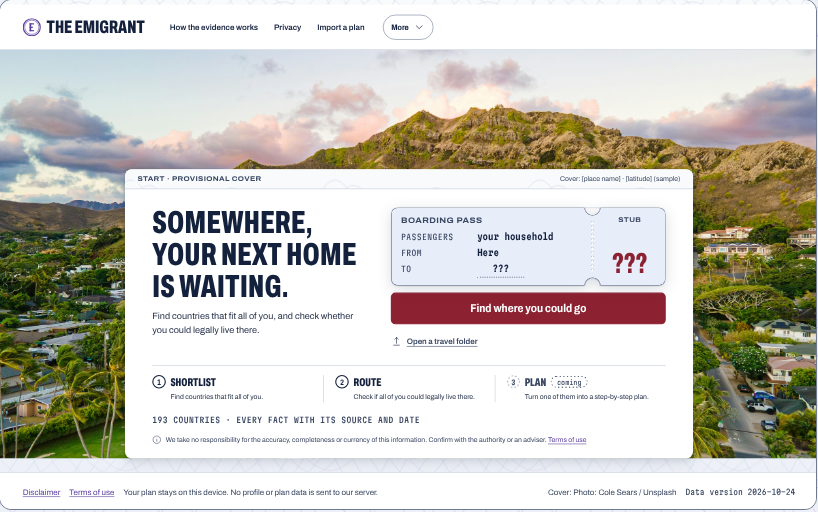
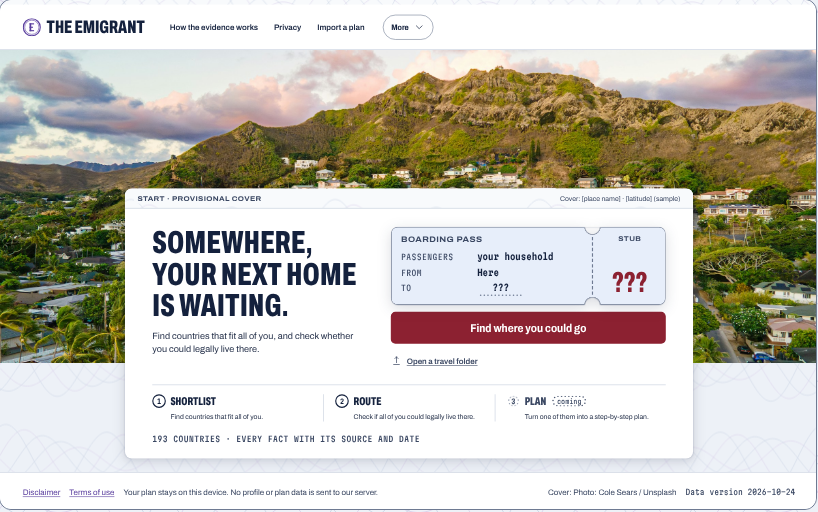
Start cover: dashed tear line, no disclaimer on the card, card ends on the paper
- The boarding pass perforation is the tickets' 2px dashed tear line between the notches
- The disclaimer sentence is off the Start card; the footer carries the Disclaimer and Terms of use links
- Desktop: the photo stops behind the card, so the card lies over its lower part and ends on the paper ground

Claude-Session: https://claude.ai/code/session_01R1t1sqzMbnrFHTa3XNSAQK

diff --git a/design/opendesign/the-emigrant_directions_d1-components.html b/design/opendesign/the-emigrant_directions_d1-components.html
@@ -1580,6 +1580,16 @@ dialog.k-dialog .dlg { position: relative; margin: auto; top: 50%; transform: tr
 @container rail (max-width: 359px) { .f-rail--compact .f-step__soon { padding: 3px 6px; } }
 /* the destination: the dots run along the bottom edge only */
 .st-pass__blank { border-bottom: 2px solid transparent; }
+
+/* ── Start, round 6 ─────────────────────────────────────────────────────────────────────────────
+   The perforation of the boarding pass is the tickets' tear line: a 2px dashed line in the control-edge ink
+   between the notches, no punched holes. */
+.st-pass__perf { width: 0; left: calc(100% - var(--stub) - 1px); top: calc(var(--notch) + 4px); bottom: calc(var(--notch) + 4px); background: none; border-left: 2px dashed var(--line-edge); }
+.k-desk .st-pass__perf { top: calc(var(--notch) + 4px); bottom: calc(var(--notch) + 4px); }
+/* Desktop: the papers card lies over the lower part of the photo and ends on the paper ground, the way the base
+   file's opening does. The photo stops behind the card; below it the security paper shows, then the footer. */
+.k-desk .st-stage { background: none; }
+.k-desk .st-cover--stage { inset: 0 0 auto 0; height: auto; bottom: 168px; }
 </style>
[1 lines of base64/hex data omitted]
 </head>
@@ -2256,14 +2266,14 @@ function startB2(variant, ctx) {
     const passCol = `<div class="st-col st-col--pass">${returning ? startPass('AUT · CRI · DEU', { stub: 'AUT' }) : startPass('???', { flap: true })}${returning
       ? `<p class="st-last">Your travel folder · last changed 2026-10-12 · 2 countries, 1 route checked</p><div class="st-acts"><button type="button" class="btn btn--primary btn--lg st-main" data-toast="${esc(MENU_ITEMS.folder[1])}">Continue with your travel folder</button>${startImport()}</div>`
       : `<div class="st-acts"><button type="button" class="btn btn--primary btn--lg st-main" data-toast="Opens the quick profile (screen 2).">Find where you could go</button>${startImport()}</div>`}</div>`;
-    inner = `${lead}${passCol}<div class="st-col st-col--legs">${startLegs()}</div><div class="st-col st-col--proof"><p class="st-proof" aria-label="${esc(START.proof)}">${esc(START.proof)}</p><p class="st-quiet__line">${icon('info-circle')}<span>${DISCLAIMER} <a href="#" data-toast="${TERMS_TOAST}">Terms of use</a></span></p></div>`;
+    inner = `${lead}${passCol}<div class="st-col st-col--legs">${startLegs()}</div><div class="st-col st-col--proof"><p class="st-proof" aria-label="${esc(START.proof)}">${esc(START.proof)}</p></div>`;
   }
   const gridCls = (variant === 'terms' || variant === 'changed' || variant === 'firstload') ? 'd2-termsgrid' : 'st-grid st-grid--b2';
   return `<section class="st-stage d2-start" aria-label="Start, ${variant}">${startCover()}
     <div class="cp st-card st-card--b2">${phone ? '' : startBand()}<div class="${gridCls}">${inner}</div>${phone ? startBand() : ''}</div></section>`;
 }
 /* The Start shell: no plan rail (the visitor has not started), the desktop inline links with "More", the cover credit
-   in the footers. The disclaimer sentence appears once, on the card under the proof line. parts: { body, offline, menuId } */
+   in the footers, with the Disclaimer and Terms of use links. parts: { body, offline, menuId } */
 function startShell(ctx, parts) {
   const id = parts.menuId || ctx;
   const credit = `Cover: ${esc(START.cover.credit)}`;
@@ -2800,7 +2810,7 @@ S.tickets = () => `<div class="g-item"><div class="g-item__label"><b>Ticket</b><
 const COVER_STATES = [['first', 'first visit: the destination still blank, the departure board on arrival'], ['terms', 'terms not yet accepted: the card is the terms, the only button is Accept'], ['changed', 'terms changed since you accepted'], ['returning', 'returning with a travel folder: the shortlist codes on the pass'], ['firstload', 'data loading for the first time']];
 S.cover = () => COVER_STATES.map(([v, label]) => `<div class="g-item g-boards" id="cover-${v}"><div class="g-item__label"><b>Cover with the papers card</b><span>${label}</span></div>
   <div class="k-boards"><div class="k-board"><div class="board-label"><b>Phone</b><span>390 × 844</span><span class="sample">Sample data</span></div><div class="k-artboard k-phone" data-frame data-cover="${v}" data-ctx="phone">${startShell('phone', { body: startB2(v, 'phone'), menuId: `cover-${v}-phone` })}</div></div>
-    <div class="k-board k-board--desktop"><div class="board-label"><b>Desktop</b><span data-fit-label>1440 × 900</span><span class="sample">Sample data</span></div><div class="k-fit k-artboard" data-fit><div class="k-desk" data-frame data-cover="${v}" data-ctx="desktop">${startShell('desktop', { body: startB2(v, 'desktop'), menuId: `cover-${v}-desktop` })}</div></div></div></div></div>`).join('') + '<p class="g-note">The full photo as the stage, the papers card over its lower part: the headline about the life, the rational line, the boarding pass as the one object (the destination "???" in navy on a dotted underline, the stub code in oxblood), the three journey legs with plain hairline dividers, Plan marked "coming". The card band carries the cover\'s place line. On desktop the card ends 24px above the footer with the journey row fully visible, and the pass is about 15% larger. The footers carry the cover credit, the privacy promise and the Disclaimer and Terms of use links; the disclaimer sentence sits once on the card. Text never sits on the photo.</p>';
+    <div class="k-board k-board--desktop"><div class="board-label"><b>Desktop</b><span data-fit-label>1440 × 900</span><span class="sample">Sample data</span></div><div class="k-fit k-artboard" data-fit><div class="k-desk" data-frame data-cover="${v}" data-ctx="desktop">${startShell('desktop', { body: startB2(v, 'desktop'), menuId: `cover-${v}-desktop` })}</div></div></div></div></div>`).join('') + '<p class="g-note">The full photo as the stage, the papers card over its lower part: the headline about the life, the rational line, the boarding pass as the one object (the destination "???" in navy on a dotted underline, the stub code in oxblood), the three journey legs with plain hairline dividers, Plan marked "coming". The card band carries the cover\'s place line. On desktop the card ends 24px above the footer with the journey row fully visible, and the pass is about 15% larger. The boarding pass tears along a dashed line, as the tickets do. On desktop the card lies over the lower part of the photo and ends on the paper ground. The footers carry the cover credit, the privacy promise and the Disclaimer and Terms of use links. Text never sits on the photo.</p>';
 
 S.profile = () => `<div class="g-grid">
   ${item('Quick profile · 1 of 3', 'where you live now · select menu with search', `<div class="qp"><span class="qp__step">Question 1 of 3</span><div class="prog"><div class="prog__track" role="progressbar" aria-valuenow="1" aria-valuemin="0" aria-valuemax="3" aria-label="Question 1 of 3"><span class="prog__bar" style="width:33%"></span></div></div><p class="qp__q" id="qp1q">Where do you live now?</p><p class="qp__why">${icon('info-circle')}<span>Why we ask: to compare prices from where you are.</span></p>${selectMenu({ ariaLabel: 'Where do you live now?', items: COUNTRY_ITEMS(), value: 'Austria', searchPlaceholder: 'Type a country' })}<div class="qp__foot"><button type="button" class="btn btn--ghost btn--sm" data-toast="Skipped. We use no home country.">Skip</button><button type="button" class="btn btn--secondary" data-toast="Next question.">Next</button></div></div>`)}

diff --git a/design/opendesign/the-emigrant_directions_start-study-self.html b/design/opendesign/the-emigrant_directions_start-study-self.html
@@ -1580,6 +1580,16 @@ dialog.k-dialog .dlg { position: relative; margin: auto; top: 50%; transform: tr
 @container rail (max-width: 359px) { .f-rail--compact .f-step__soon { padding: 3px 6px; } }
 /* the destination: the dots run along the bottom edge only */
 .st-pass__blank { border-bottom: 2px solid transparent; }
+
+/* ── Start, round 6 ─────────────────────────────────────────────────────────────────────────────
+   The perforation of the boarding pass is the tickets' tear line: a 2px dashed line in the control-edge ink
+   between the notches, no punched holes. */
+.st-pass__perf { width: 0; left: calc(100% - var(--stub) - 1px); top: calc(var(--notch) + 4px); bottom: calc(var(--notch) + 4px); background: none; border-left: 2px dashed var(--line-edge); }
+.k-desk .st-pass__perf { top: calc(var(--notch) + 4px); bottom: calc(var(--notch) + 4px); }
+/* Desktop: the papers card lies over the lower part of the photo and ends on the paper ground, the way the base
+   file's opening does. The photo stops behind the card; below it the security paper shows, then the footer. */
+.k-desk .st-stage { background: none; }
+.k-desk .st-cover--stage { inset: 0 0 auto 0; height: auto; bottom: 168px; }
 </style>
 <style data-od-inline-asset="./d2-screens.css?v=20261026z">/* The Emigrant — D2 screen composition layer.
  * Only layout for composing screens from the D1 components in emigrant-ds.css. No new colors, type
@@ -2397,14 +2407,14 @@ function startB2(variant, ctx) {
     const passCol = `<div class="st-col st-col--pass">${returning ? startPass('AUT · CRI · DEU', { stub: 'AUT' }) : startPass('???', { flap: true })}${returning
       ? `<p class="st-last">Your travel folder · last changed 2026-10-12 · 2 countries, 1 route checked</p><div class="st-acts"><button type="button" class="btn btn--primary btn--lg st-main" data-toast="${esc(MENU_ITEMS.folder[1])}">Continue with your travel folder</button>${startImport()}</div>`
       : `<div class="st-acts"><button type="button" class="btn btn--primary btn--lg st-main" data-toast="Opens the quick profile (screen 2).">Find where you could go</button>${startImport()}</div>`}</div>`;
-    inner = `${lead}${passCol}<div class="st-col st-col--legs">${startLegs()}</div><div class="st-col st-col--proof"><p class="st-proof" aria-label="${esc(START.proof)}">${esc(START.proof)}</p><p class="st-quiet__line">${icon('info-circle')}<span>${DISCLAIMER} <a href="#" data-toast="${TERMS_TOAST}">Terms of use</a></span></p></div>`;
+    inner = `${lead}${passCol}<div class="st-col st-col--legs">${startLegs()}</div><div class="st-col st-col--proof"><p class="st-proof" aria-label="${esc(START.proof)}">${esc(START.proof)}</p></div>`;
   }
   const gridCls = (variant === 'terms' || variant === 'changed' || variant === 'firstload') ? 'd2-termsgrid' : 'st-grid st-grid--b2';
   return `<section class="st-stage d2-start" aria-label="Start, ${variant}">${startCover()}
     <div class="cp st-card st-card--b2">${phone ? '' : startBand()}<div class="${gridCls}">${inner}</div>${phone ? startBand() : ''}</div></section>`;
 }
 /* The Start shell: no plan rail (the visitor has not started), the desktop inline links with "More", the cover credit
-   in the footers. The disclaimer sentence appears once, on the card under the proof line. parts: { body, offline, menuId } */
+   in the footers, with the Disclaimer and Terms of use links. parts: { body, offline, menuId } */
 function startShell(ctx, parts) {
   const id = parts.menuId || ctx;
   const credit = `Cover: ${esc(START.cover.credit)}`;
@@ -2698,7 +2708,7 @@ function fontStatus() {
   const el = $('#fontStatus'); if (!el) return;
   document.fonts.ready.then(() => { const ok = document.fonts.check('800 48px Archivo') && [...document.fonts].some(f => f.family === 'Archivo' && f.status === 'loaded'); el.textContent = ok ? 'Fonts: Archivo (width axis 62–125%) and Martian Mono loaded from this project' : 'Fonts: Archivo did not load in this viewer, a fallback is showing'; el.dataset.ok = ok; });
 }
-const STUDY_NOTE = 'The chosen direction, as D2 renders it on screen 1 and D1 shows it as "Cover with the papers card": the photo first, the papers card on its lower part, the headline about the life with the rational line under it, one strong object (the boarding pass, the destination "???" in navy on a dotted underline) above the button, the proof line as plain mono text, and the three journey legs as clean typography with hairline dividers; Plan marked "coming" with the dotted tag. The card band carries the cover\'s place line. On desktop the card ends 24px above the footer with the journey row fully visible, and the pass is about 15% larger. The footers carry the cover credit, the privacy promise and the Disclaimer and Terms of use links; the disclaimer sentence sits once on the card. On arrival the photo drifts slowly and the legs appear one after another; all motion is off under reduced motion. The cover switcher swaps the cover photo, its credit, place line and focal point. Sample data.';
+const STUDY_NOTE = 'The chosen direction, as D2 renders it on screen 1 and D1 shows it as "Cover with the papers card": the photo first, the papers card on its lower part, the headline about the life with the rational line under it, one strong object (the boarding pass, the destination "???" in navy on a dotted underline) above the button, the proof line as plain mono text, and the three journey legs as clean typography with hairline dividers; Plan marked "coming" with the dotted tag. The card band carries the cover\'s place line. On desktop the card ends 24px above the footer with the journey row fully visible, and the pass is about 15% larger. The boarding pass tears along a dashed line, as the tickets do. On desktop the card lies over the lower part of the photo and ends on the paper ground. The footers carry the cover credit, the privacy promise and the Disclaimer and Terms of use links. On arrival the photo drifts slowly and the legs appear one after another; all motion is off under reduced motion. The cover switcher swaps the cover photo, its credit, place line and focal point. Sample data.';
 function sectionHtml() {
   const coverRow = `<div class="d2-states__row">${COVER_ORDER.map(id => `<button type="button" class="d2-state" aria-pressed="${id === activeCover}" data-cover="${id}">${COVERS[id].label}</button>`).join('')}<span class="st-covernote">The three files in assets/photos. The coastal road is a generated image, a placeholder, not for release.</span></div>`;
   const sw = `<div class="d2-states" role="group" aria-label="Prototype controls"><span class="d2-states__tag">${icon('eye')}<span>Prototype · headline</span></span><div class="d2-states__row">${HEADLINES_B2.map((h, i) => `<button type="button" class="d2-state" aria-pressed="${i === b2Headline}" data-b2h="${i}">${i + 1} · ${h}</button>`).join('')}<a class="d2-state" href="#" data-replay>Replay the destination board</a></div><span class="d2-states__tag" style="margin-top:8px">${icon('eye')}<span>Prototype · cover</span></span>${coverRow}<p class="st-fontstatus" id="fontStatus" role="status">Fonts: checking…</p></div>`;

diff --git a/design/opendesign/the-emigrant_directions_d2-plan.html b/design/opendesign/the-emigrant_directions_d2-plan.html
@@ -1580,6 +1580,16 @@ dialog.k-dialog .dlg { position: relative; margin: auto; top: 50%; transform: tr
 @container rail (max-width: 359px) { .f-rail--compact .f-step__soon { padding: 3px 6px; } }
 /* the destination: the dots run along the bottom edge only */
 .st-pass__blank { border-bottom: 2px solid transparent; }
+
+/* ── Start, round 6 ─────────────────────────────────────────────────────────────────────────────
+   The perforation of the boarding pass is the tickets' tear line: a 2px dashed line in the control-edge ink
+   between the notches, no punched holes. */
+.st-pass__perf { width: 0; left: calc(100% - var(--stub) - 1px); top: calc(var(--notch) + 4px); bottom: calc(var(--notch) + 4px); background: none; border-left: 2px dashed var(--line-edge); }
+.k-desk .st-pass__perf { top: calc(var(--notch) + 4px); bottom: calc(var(--notch) + 4px); }
+/* Desktop: the papers card lies over the lower part of the photo and ends on the paper ground, the way the base
+   file's opening does. The photo stops behind the card; below it the security paper shows, then the footer. */
+.k-desk .st-stage { background: none; }
+.k-desk .st-cover--stage { inset: 0 0 auto 0; height: auto; bottom: 168px; }
 </style>
 <style data-od-inline-asset="./d2-screens.css?v=20261026z">/* The Emigrant — D2 screen composition layer.
  * Only layout for composing screens from the D1 components in emigrant-ds.css. No new colors, type
@@ -2385,14 +2395,14 @@ function startB2(variant, ctx) {
     const passCol = `<div class="st-col st-col--pass">${returning ? startPass('AUT · CRI · DEU', { stub: 'AUT' }) : startPass('???', { flap: true })}${returning
       ? `<p class="st-last">Your travel folder · last changed 2026-10-12 · 2 countries, 1 route checked</p><div class="st-acts"><button type="button" class="btn btn--primary btn--lg st-main" data-toast="${esc(MENU_ITEMS.folder[1])}">Continue with your travel folder</button>${startImport()}</div>`
       : `<div class="st-acts"><button type="button" class="btn btn--primary btn--lg st-main" data-toast="Opens the quick profile (screen 2).">Find where you could go</button>${startImport()}</div>`}</div>`;
-    inner = `${lead}${passCol}<div class="st-col st-col--legs">${startLegs()}</div><div class="st-col st-col--proof"><p class="st-proof" aria-label="${esc(START.proof)}">${esc(START.proof)}</p><p class="st-quiet__line">${icon('info-circle')}<span>${DISCLAIMER} <a href="#" data-toast="${TERMS_TOAST}">Terms of use</a></span></p></div>`;
+    inner = `${lead}${passCol}<div class="st-col st-col--legs">${startLegs()}</div><div class="st-col st-col--proof"><p class="st-proof" aria-label="${esc(START.proof)}">${esc(START.proof)}</p></div>`;
   }
   const gridCls = (variant === 'terms' || variant === 'changed' || variant === 'firstload') ? 'd2-termsgrid' : 'st-grid st-grid--b2';
   return `<section class="st-stage d2-start" aria-label="Start, ${variant}">${startCover()}
     <div class="cp st-card st-card--b2">${phone ? '' : startBand()}<div class="${gridCls}">${inner}</div>${phone ? startBand() : ''}</div></section>`;
 }
 /* The Start shell: no plan rail (the visitor has not started), the desktop inline links with "More", the cover credit
-   in the footers. The disclaimer sentence appears once, on the card under the proof line. parts: { body, offline, menuId } */
+   in the footers, with the Disclaimer and Terms of use links. parts: { body, offline, menuId } */
 function startShell(ctx, parts) {
   const id = parts.menuId || ctx;
   const credit = `Cover: ${esc(START.cover.credit)}`;
@@ -2772,7 +2782,7 @@ const defState = () => ({ list: new Set(), country: 'AUT', search: '', region: '
 
 SCREENS.start = {
   no: '1 · 1a', title: 'Start, with Terms of use',
-  note: 'The first impression, in the chosen B2 direction: the full photo as the stage, the papers card over its lower part with the headline about the life, the rational line, the boarding pass as the one object, and the three journey legs. Terms of use (1a) take the card over until accepted; then the only button is "Accept". The cover is provisional and comes from one setting, START.cover, in the D1 engine; D1\'s "Cover with the papers card" is this same component. The footers carry the privacy promise and the Disclaimer and Terms of use links; the disclaimer sentence sits once on the card.',
+  note: 'The first impression, in the chosen B2 direction: the full photo as the stage, the papers card over its lower part with the headline about the life, the rational line, the boarding pass as the one object, and the three journey legs. Terms of use (1a) take the card over until accepted; then the only button is "Accept". The cover is provisional and comes from one setting, START.cover, in the D1 engine; D1\'s "Cover with the papers card" is this same component. The footers carry the privacy promise and the Disclaimer and Terms of use links.',
   states: [['first', 'First visit'], ['terms', 'Terms not accepted'], ['changed', 'Terms changed'], ['returning', 'Returning with a plan'], ['firstload', 'Data loading for the first time']],
   system: [['offline', 'Offline']],
   render(ctx, S) {

diff --git a/design/opendesign/the-emigrant_directions_d2-reading.html b/design/opendesign/the-emigrant_directions_d2-reading.html
@@ -1580,6 +1580,16 @@ dialog.k-dialog .dlg { position: relative; margin: auto; top: 50%; transform: tr
 @container rail (max-width: 359px) { .f-rail--compact .f-step__soon { padding: 3px 6px; } }
 /* the destination: the dots run along the bottom edge only */
 .st-pass__blank { border-bottom: 2px solid transparent; }
+
+/* ── Start, round 6 ─────────────────────────────────────────────────────────────────────────────
+   The perforation of the boarding pass is the tickets' tear line: a 2px dashed line in the control-edge ink
+   between the notches, no punched holes. */
+.st-pass__perf { width: 0; left: calc(100% - var(--stub) - 1px); top: calc(var(--notch) + 4px); bottom: calc(var(--notch) + 4px); background: none; border-left: 2px dashed var(--line-edge); }
+.k-desk .st-pass__perf { top: calc(var(--notch) + 4px); bottom: calc(var(--notch) + 4px); }
+/* Desktop: the papers card lies over the lower part of the photo and ends on the paper ground, the way the base
+   file's opening does. The photo stops behind the card; below it the security paper shows, then the footer. */
+.k-desk .st-stage { background: none; }
+.k-desk .st-cover--stage { inset: 0 0 auto 0; height: auto; bottom: 168px; }
 </style>
 <style data-od-inline-asset="./d2-screens.css?v=20261026z">/* The Emigrant — D2 screen composition layer.
  * Only layout for composing screens from the D1 components in emigrant-ds.css. No new colors, type
@@ -2385,14 +2395,14 @@ function startB2(variant, ctx) {
     const passCol = `<div class="st-col st-col--pass">${returning ? startPass('AUT · CRI · DEU', { stub: 'AUT' }) : startPass('???', { flap: true })}${returning
       ? `<p class="st-last">Your travel folder · last changed 2026-10-12 · 2 countries, 1 route checked</p><div class="st-acts"><button type="button" class="btn btn--primary btn--lg st-main" data-toast="${esc(MENU_ITEMS.folder[1])}">Continue with your travel folder</button>${startImport()}</div>`
       : `<div class="st-acts"><button type="button" class="btn btn--primary btn--lg st-main" data-toast="Opens the quick profile (screen 2).">Find where you could go</button>${startImport()}</div>`}</div>`;
-    inner = `${lead}${passCol}<div class="st-col st-col--legs">${startLegs()}</div><div class="st-col st-col--proof"><p class="st-proof" aria-label="${esc(START.proof)}">${esc(START.proof)}</p><p class="st-quiet__line">${icon('info-circle')}<span>${DISCLAIMER} <a href="#" data-toast="${TERMS_TOAST}">Terms of use</a></span></p></div>`;
+    inner = `${lead}${passCol}<div class="st-col st-col--legs">${startLegs()}</div><div class="st-col st-col--proof"><p class="st-proof" aria-label="${esc(START.proof)}">${esc(START.proof)}</p></div>`;
   }
   const gridCls = (variant === 'terms' || variant === 'changed' || variant === 'firstload') ? 'd2-termsgrid' : 'st-grid st-grid--b2';
   return `<section class="st-stage d2-start" aria-label="Start, ${variant}">${startCover()}
     <div class="cp st-card st-card--b2">${phone ? '' : startBand()}<div class="${gridCls}">${inner}</div>${phone ? startBand() : ''}</div></section>`;
 }
 /* The Start shell: no plan rail (the visitor has not started), the desktop inline links with "More", the cover credit
-   in the footers. The disclaimer sentence appears once, on the card under the proof line. parts: { body, offline, menuId } */
+   in the footers, with the Disclaimer and Terms of use links. parts: { body, offline, menuId } */
 function startShell(ctx, parts) {
   const id = parts.menuId || ctx;
   const credit = `Cover: ${esc(START.cover.credit)}`;
@@ -2772,7 +2782,7 @@ const defState = () => ({ list: new Set(), country: 'AUT', search: '', region: '
 
 SCREENS.start = {
   no: '1 · 1a', title: 'Start, with Terms of use',
-  note: 'The first impression, in the chosen B2 direction: the full photo as the stage, the papers card over its lower part with the headline about the life, the rational line, the boarding pass as the one object, and the three journey legs. Terms of use (1a) take the card over until accepted; then the only button is "Accept". The cover is provisional and comes from one setting, START.cover, in the D1 engine; D1\'s "Cover with the papers card" is this same component. The footers carry the privacy promise and the Disclaimer and Terms of use links; the disclaimer sentence sits once on the card.',
+  note: 'The first impression, in the chosen B2 direction: the full photo as the stage, the papers card over its lower part with the headline about the life, the rational line, the boarding pass as the one object, and the three journey legs. Terms of use (1a) take the card over until accepted; then the only button is "Accept". The cover is provisional and comes from one setting, START.cover, in the D1 engine; D1\'s "Cover with the papers card" is this same component. The footers carry the privacy promise and the Disclaimer and Terms of use links.',
   states: [['first', 'First visit'], ['terms', 'Terms not accepted'], ['changed', 'Terms changed'], ['returning', 'Returning with a plan'], ['firstload', 'Data loading for the first time']],
   system: [['offline', 'Offline']],
   render(ctx, S) {

diff --git a/design/opendesign/the-emigrant_directions_d2-shortlist.html b/design/opendesign/the-emigrant_directions_d2-shortlist.html
@@ -1580,6 +1580,16 @@ dialog.k-dialog .dlg { position: relative; margin: auto; top: 50%; transform: tr
 @container rail (max-width: 359px) { .f-rail--compact .f-step__soon { padding: 3px 6px; } }
 /* the destination: the dots run along the bottom edge only */
 .st-pass__blank { border-bottom: 2px solid transparent; }
+
+/* ── Start, round 6 ─────────────────────────────────────────────────────────────────────────────
+   The perforation of the boarding pass is the tickets' tear line: a 2px dashed line in the control-edge ink
+   between the notches, no punched holes. */
+.st-pass__perf { width: 0; left: calc(100% - var(--stub) - 1px); top: calc(var(--notch) + 4px); bottom: calc(var(--notch) + 4px); background: none; border-left: 2px dashed var(--line-edge); }
+.k-desk .st-pass__perf { top: calc(var(--notch) + 4px); bottom: calc(var(--notch) + 4px); }
+/* Desktop: the papers card lies over the lower part of the photo and ends on the paper ground, the way the base
+   file's opening does. The photo stops behind the card; below it the security paper shows, then the footer. */
+.k-desk .st-stage { background: none; }
+.k-desk .st-cover--stage { inset: 0 0 auto 0; height: auto; bottom: 168px; }
 </style>
 <style data-od-inline-asset="./d2-screens.css?v=20261026z">/* The Emigrant — D2 screen composition layer.
  * Only layout for composing screens from the D1 components in emigrant-ds.css. No new colors, type
@@ -2385,14 +2395,14 @@ function startB2(variant, ctx) {
     const passCol = `<div class="st-col st-col--pass">${returning ? startPass('AUT · CRI · DEU', { stub: 'AUT' }) : startPass('???', { flap: true })}${returning
       ? `<p class="st-last">Your travel folder · last changed 2026-10-12 · 2 countries, 1 route checked</p><div class="st-acts"><button type="button" class="btn btn--primary btn--lg st-main" data-toast="${esc(MENU_ITEMS.folder[1])}">Continue with your travel folder</button>${startImport()}</div>`
       : `<div class="st-acts"><button type="button" class="btn btn--primary btn--lg st-main" data-toast="Opens the quick profile (screen 2).">Find where you could go</button>${startImport()}</div>`}</div>`;
-    inner = `${lead}${passCol}<div class="st-col st-col--legs">${startLegs()}</div><div class="st-col st-col--proof"><p class="st-proof" aria-label="${esc(START.proof)}">${esc(START.proof)}</p><p class="st-quiet__line">${icon('info-circle')}<span>${DISCLAIMER} <a href="#" data-toast="${TERMS_TOAST}">Terms of use</a></span></p></div>`;
+    inner = `${lead}${passCol}<div class="st-col st-col--legs">${startLegs()}</div><div class="st-col st-col--proof"><p class="st-proof" aria-label="${esc(START.proof)}">${esc(START.proof)}</p></div>`;
   }
   const gridCls = (variant === 'terms' || variant === 'changed' || variant === 'firstload') ? 'd2-termsgrid' : 'st-grid st-grid--b2';
   return `<section class="st-stage d2-start" aria-label="Start, ${variant}">${startCover()}
     <div class="cp st-card st-card--b2">${phone ? '' : startBand()}<div class="${gridCls}">${inner}</div>${phone ? startBand() : ''}</div></section>`;
 }
 /* The Start shell: no plan rail (the visitor has not started), the desktop inline links with "More", the cover credit
-   in the footers. The disclaimer sentence appears once, on the card under the proof line. parts: { body, offline, menuId } */
+   in the footers, with the Disclaimer and Terms of use links. parts: { body, offline, menuId } */
 function startShell(ctx, parts) {
   const id = parts.menuId || ctx;
   const credit = `Cover: ${esc(START.cover.credit)}`;
@@ -2772,7 +2782,7 @@ const defState = () => ({ list: new Set(), country: 'AUT', search: '', region: '
 
 SCREENS.start = {
   no: '1 · 1a', title: 'Start, with Terms of use',
-  note: 'The first impression, in the chosen B2 direction: the full photo as the stage, the papers card over its lower part with the headline about the life, the rational line, the boarding pass as the one object, and the three journey legs. Terms of use (1a) take the card over until accepted; then the only button is "Accept". The cover is provisional and comes from one setting, START.cover, in the D1 engine; D1\'s "Cover with the papers card" is this same component. The footers carry the privacy promise and the Disclaimer and Terms of use links; the disclaimer sentence sits once on the card.',
+  note: 'The first impression, in the chosen B2 direction: the full photo as the stage, the papers card over its lower part with the headline about the life, the rational line, the boarding pass as the one object, and the three journey legs. Terms of use (1a) take the card over until accepted; then the only button is "Accept". The cover is provisional and comes from one setting, START.cover, in the D1 engine; D1\'s "Cover with the papers card" is this same component. The footers carry the privacy promise and the Disclaimer and Terms of use links.',
   states: [['first', 'First visit'], ['terms', 'Terms not accepted'], ['changed', 'Terms changed'], ['returning', 'Returning with a plan'], ['firstload', 'Data loading for the first time']],
   system: [['offline', 'Offline']],
   render(ctx, S) {

diff --git a/design/opendesign/the-emigrant_directions_d1-design-system.html b/design/opendesign/the-emigrant_directions_d1-design-system.html
@@ -1580,6 +1580,16 @@ dialog.k-dialog .dlg { position: relative; margin: auto; top: 50%; transform: tr
 @container rail (max-width: 359px) { .f-rail--compact .f-step__soon { padding: 3px 6px; } }
 /* the destination: the dots run along the bottom edge only */
 .st-pass__blank { border-bottom: 2px solid transparent; }
+
+/* ── Start, round 6 ─────────────────────────────────────────────────────────────────────────────
+   The perforation of the boarding pass is the tickets' tear line: a 2px dashed line in the control-edge ink
+   between the notches, no punched holes. */
+.st-pass__perf { width: 0; left: calc(100% - var(--stub) - 1px); top: calc(var(--notch) + 4px); bottom: calc(var(--notch) + 4px); background: none; border-left: 2px dashed var(--line-edge); }
+.k-desk .st-pass__perf { top: calc(var(--notch) + 4px); bottom: calc(var(--notch) + 4px); }
+/* Desktop: the papers card lies over the lower part of the photo and ends on the paper ground, the way the base
+   file's opening does. The photo stops behind the card; below it the security paper shows, then the footer. */
+.k-desk .st-stage { background: none; }
+.k-desk .st-cover--stage { inset: 0 0 auto 0; height: auto; bottom: 168px; }
 </style>
[1 lines of base64/hex data omitted]
 <style>
@@ -2391,14 +2401,14 @@ function startB2(variant, ctx) {
     const passCol = `<div class="st-col st-col--pass">${returning ? startPass('AUT · CRI · DEU', { stub: 'AUT' }) : startPass('???', { flap: true })}${returning
       ? `<p class="st-last">Your travel folder · last changed 2026-10-12 · 2 countries, 1 route checked</p><div class="st-acts"><button type="button" class="btn btn--primary btn--lg st-main" data-toast="${esc(MENU_ITEMS.folder[1])}">Continue with your travel folder</button>${startImport()}</div>`
       : `<div class="st-acts"><button type="button" class="btn btn--primary btn--lg st-main" data-toast="Opens the quick profile (screen 2).">Find where you could go</button>${startImport()}</div>`}</div>`;
-    inner = `${lead}${passCol}<div class="st-col st-col--legs">${startLegs()}</div><div class="st-col st-col--proof"><p class="st-proof" aria-label="${esc(START.proof)}">${esc(START.proof)}</p><p class="st-quiet__line">${icon('info-circle')}<span>${DISCLAIMER} <a href="#" data-toast="${TERMS_TOAST}">Terms of use</a></span></p></div>`;
+    inner = `${lead}${passCol}<div class="st-col st-col--legs">${startLegs()}</div><div class="st-col st-col--proof"><p class="st-proof" aria-label="${esc(START.proof)}">${esc(START.proof)}</p></div>`;
   }
   const gridCls = (variant === 'terms' || variant === 'changed' || variant === 'firstload') ? 'd2-termsgrid' : 'st-grid st-grid--b2';
   return `<section class="st-stage d2-start" aria-label="Start, ${variant}">${startCover()}
     <div class="cp st-card st-card--b2">${phone ? '' : startBand()}<div class="${gridCls}">${inner}</div>${phone ? startBand() : ''}</div></section>`;
 }
 /* The Start shell: no plan rail (the visitor has not started), the desktop inline links with "More", the cover credit
-   in the footers. The disclaimer sentence appears once, on the card under the proof line. parts: { body, offline, menuId } */
+   in the footers, with the Disclaimer and Terms of use links. parts: { body, offline, menuId } */
 function startShell(ctx, parts) {
   const id = parts.menuId || ctx;
   const credit = `Cover: ${esc(START.cover.credit)}`;
